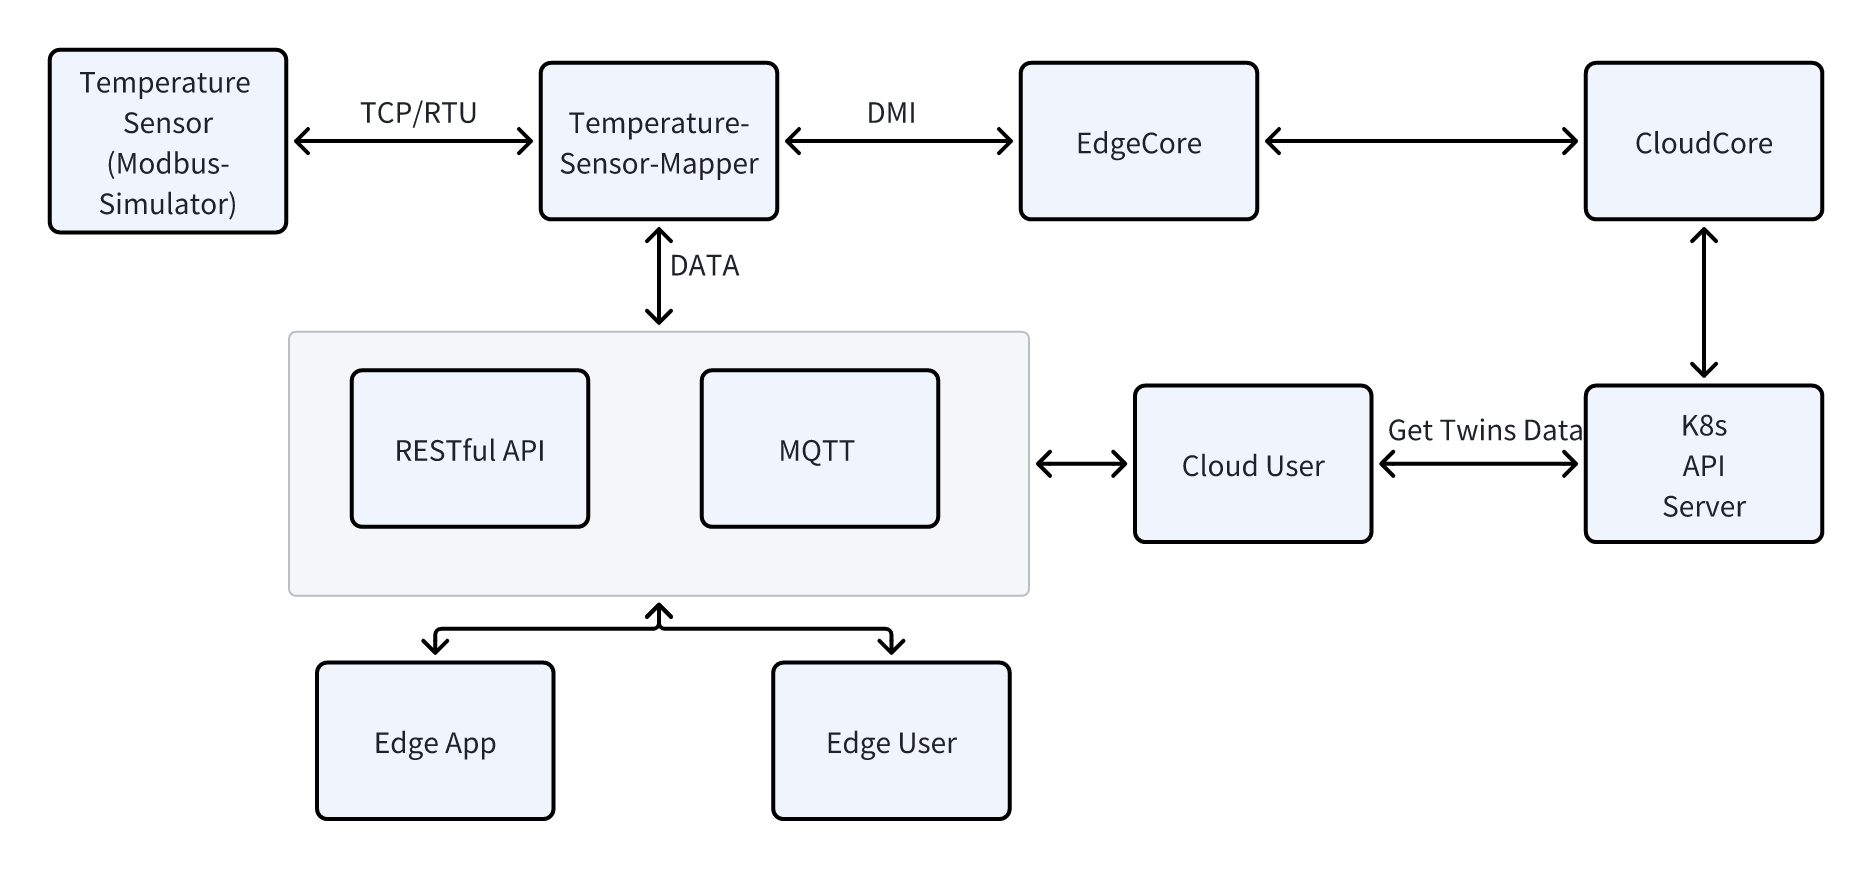
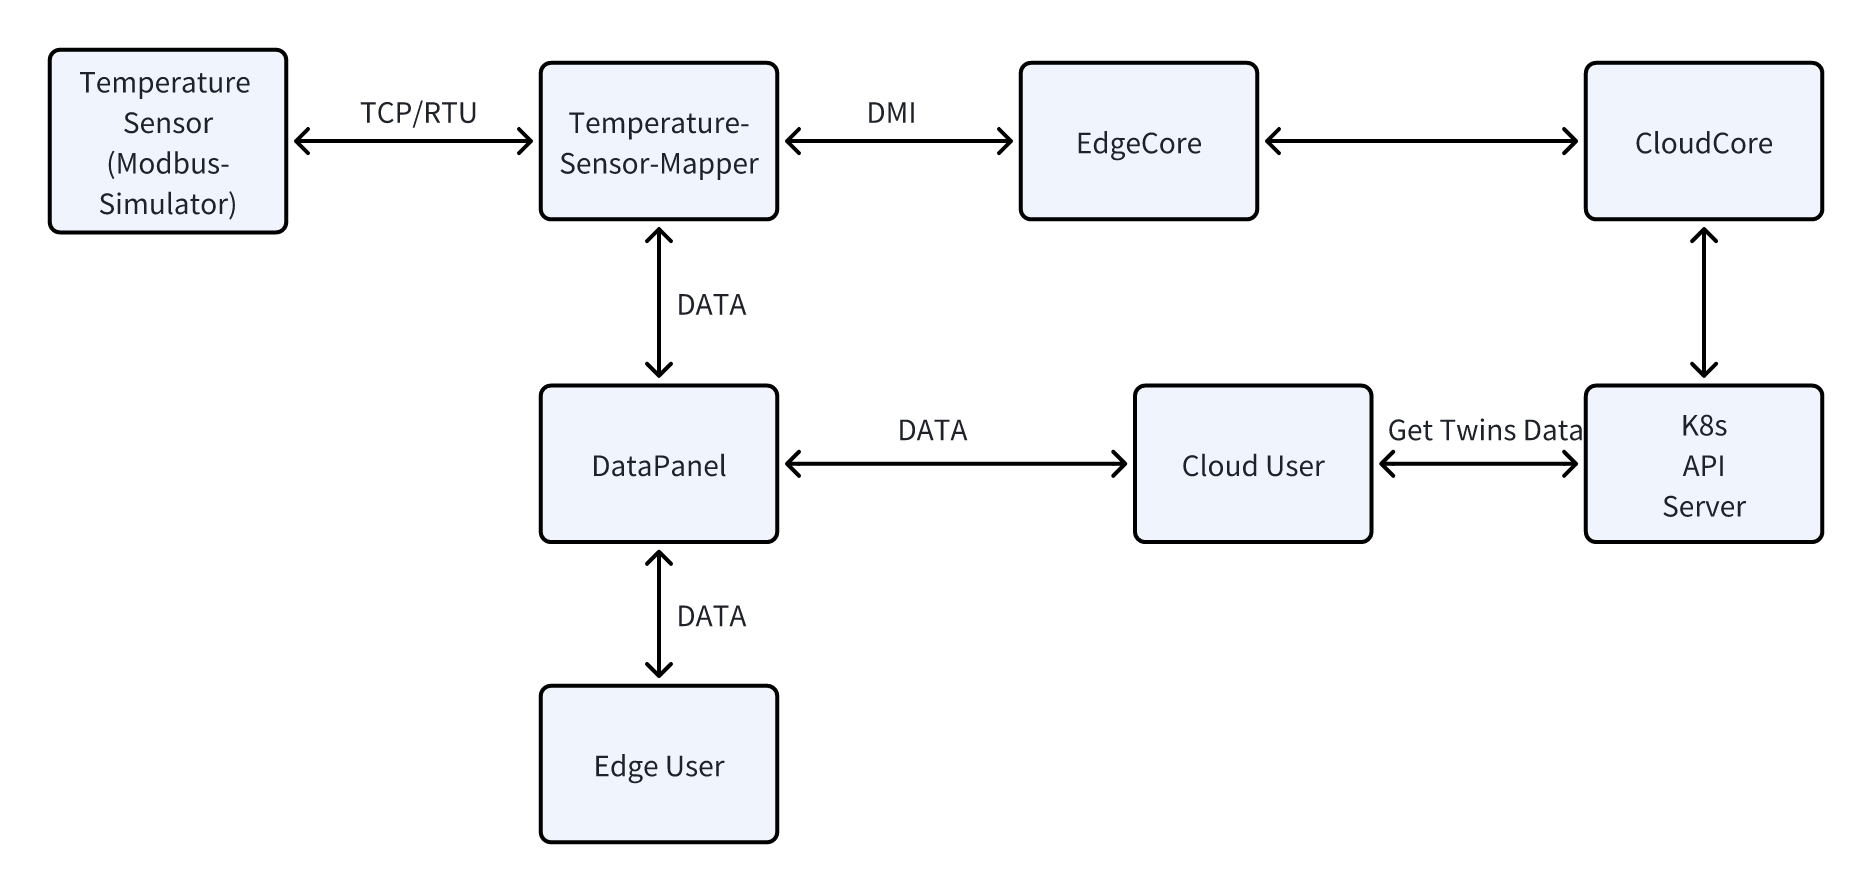
optimize the doc

diff --git a/device-iot-cases-optimization.md b/device-iot-cases-optimization.md
@@ -8,34 +8,7 @@ creation-date: 2025-07-02
 last-updated: 2025-07-05
 status: Implementable 
 ---
-# KubeEdge device management practice cases optimization
----
-- [KubeEdge device management practice cases optimization](#kubeedge-device-management-practice-cases-optimization)
-  - [Motivation](#motivation)
-  - [Goals](#goals)
-    - [Develop a temperature sensor Mapper plug-in based on the latest version of Mapper-Framework](#develop-a-temperature-sensor-mapper-plug-in-based-on-the-latest-version-of-mapper-framework)
-    - [Optimize existing IoT cases](#optimize-existing-iot-cases)
-  - [Proposal](#proposal)
-    - [1. Temperature-sensor-mapper development and testing](#1-temperature-sensor-mapper-development-and-testing)
-      - [1.1 Architecture](#11-architecture)
-      - [1.2 CRDS Development](#12-crds-development)
-      - [1.3 Driver Development](#13-driver-development)
-      - [1.4 Analog Implementation of Temperature Sensor Device](#14-analog-implementation-of-temperature-sensor-device)
-        - [1.4.1 via Modbus-Slave](#141-via-modbus-slave)
-        - [1.4.2 via gomodbus](#142-via-gomodbus)
-      - [1.5 Deploy to KubeEdge environment for testing](#15-deploy-to-kubeedge-environment-for-testing)
-    - [2. kubeedge-counter-demo Case Optimization](#2-kubeedge-counter-demo-case-optimization)
-      - [2.1 Analysis](#21-analysis)
-        - [2.1.1 Native implementation:](#211-native-implementation)
-        - [2.1.2 Insufficient analysis](#212-insufficient-analysis)
-      - [2.2 Details of the optimization plan](#22-details-of-the-optimization-plan)
-        - [2.2.1  Compatibility Optimization](#221--compatibility-optimization)
-        - [2.2.2 Usability Optimization](#222-usability-optimization)
-  - [Planning](#planning)
-    - [Phase 1 of Project Development: Mapper Plugin Development and Testing （July 01 - July 20）](#phase-1-of-project-development-mapper-plugin-development-and-testing-july-01---july-20)
-    - [Phase 2 of Project Development: Optimization of Existing Cases （07/21 - 08/05）](#phase-2-of-project-development-optimization-of-existing-cases-0721---0805)
-    - [Phase 3 of Project Development	: Refinement, Reflection, and Summary （08/06 - 09/01）](#phase-3-of-project-development-refinement-reflection-and-summary-0806---0901)
----
+<!--no toc--> # KubeEdge device management practice cases optimization
 ## Motivation
 The Kubeedge Examples repository provides users with many use cases, allowing them to quickly get started. However, many of the examples in the repository are currently developed based on the old version of kubeedge (before v1.15), and there are compatibility issues with the new version of kubeedge. Therefore, we need to optimize the examples in the repository so that they can run under the new version.
 
@@ -96,7 +69,7 @@ Reference [v1beta1/device_instance_types](https://github.com/kubeedge/kubeedge/b
   - Custom protocol Modbus: Supports TCP and RTU modes
   - Add custom fields such as dataType, register, scale, offset, scale, isSwap, isRegister, max, min, etc. to properties.visitors.configData to facilitate driver operations 
   - Add methods for RESTful API calls
-  - Optional: Push observedDesired and pushMethod in the twins field to the mqtt broker.
+  - Optional: Enable pushmethod to push data to the specified end
   - By customizing the scaling factor, Min/Max, and communicateMode in configData, temperature supports floating-point input/output, threshold warnings, as well as rtu and tcp protocols 
 ```yaml
 apiVersion: devices.kubeedge.io/v1beta1
@@ -164,31 +137,6 @@ spec:
       description: update the temperature of the device
       propertyNames:
         - temperature
-status:
-  # twins:
-  #   - propertyName: temperature
-  #     reported:
-  #       metadata:
-  #         timestamp: "1688663400"
-  #         type: "float"
-  #       value: "25.5"
-  #     observedDesired:
-  #       metadata:
-  #         timestamp: "1688663400"
-  #         type: "float"
-  #       value: "25.5"
-  #   - propertyName: status
-  #     reported:
-  #       metadata:
-  #         timestamp: "1688663400"
-  #         type: "int"
-  #       value: "1"
-  #     observedDesired:
-  #       metadata:
-  #         timestamp: "1688663400"
-  #         type: "int"
-  #       value: "1"
-    
 ```
 
 #### 1.3 Driver Development
@@ -242,26 +190,7 @@ func main() {
   - Then, access the mapper's RESTful API via port 7777 to verify the device data collected in the mapper. Additionally, you can check the twins.reported field in the device.yaml file on the cloud to verify whether the data has been uploaded to the cloud. 
   - Finally, a web app can be built and deployed to the cloud for visual inspection of the results
 ### 2. kubeedge-counter-demo Case Optimization
-#### 2.1 Analysis
-##### 2.1.1 Native implementation:
-  - Core Components:
-      - Counter-Mapper
-        - The Mapper integrates a pseudo-device of a counter, with the counter's default state being OFF and running on the edge side. 
-      - Web-controller-app
-        - Runs on the cloud and provides a User Interface to operate the counter. 
-      - crds
-   - Working Principle:
-      - Mapper subscribes to the MQTT topic $hw/events/device/counter/twin/update/document to receive control commands
-      - When it receives the expected control command, it will perform the operation of turning the counter on/off 
-      - The Mapper will update the value of the counter every 1 second and publish it to the topic $hw/events/device/counter/twin/update 
-      - In this way, the counter state between the edge and the cloud is synchronized 
-  - Data Stream:
-      - Mapper publishes device status and collected data to EdgeCore via MQTT topics
-      - The EventBus component in EdgeCore receives MQTT messages 
-      - The DeviceTwin module processes these messages and stores the state 
-      - EdgeCore sends device twin data to CloudCore via WebSocket
-      - CloudCore updates the device CRD status in Kubernetes
-##### 2.1.2 Insufficient analysis
+#### 2.1 Insufficient analysis
   - Usability: In the new version, manual installation of MQTT Broker is required, and the deployment steps are rather cumbersome.
   - Compatibility: 
     - Deprecated from Kubernetes 1.16 and completely removed in 1.21, cluster version ≥ 1.16, must use   rbac.authorization.k8s.io/v1
@@ -293,20 +222,7 @@ func main() {
   - Simplify the operation of web pages 
   - Provide more detailed documentation
 
-## Planning
-### Phase 1 of Project Development: Mapper Plugin Development and Testing （July 01 - July 20）
-- CRDS Development
-- Driver Development
-- Modbus Emulator
-- Development
-- Deployment Test
-### Phase 2 of Project Development: Optimization of Existing Cases （07/21 - 08/05）	
-- Refactoring counter-mapper 
-- Refactoring web-controller-app 
-- Improve usability
-### Phase 3 of Project Development	: Refinement, Reflection, and Summary （08/06 - 09/01）
-- Resolve issues identified during the mid-term acceptance stage
-- Complete the testing and documentation for the first phase
-- Complete the testing and documentation for the second phase
-- Reflect on areas for improvement and summarize
-
+## Plan
+### In version 1.21
+- Add a modbus mapper to the example repository
+- Optimizing the counter-mapper example
